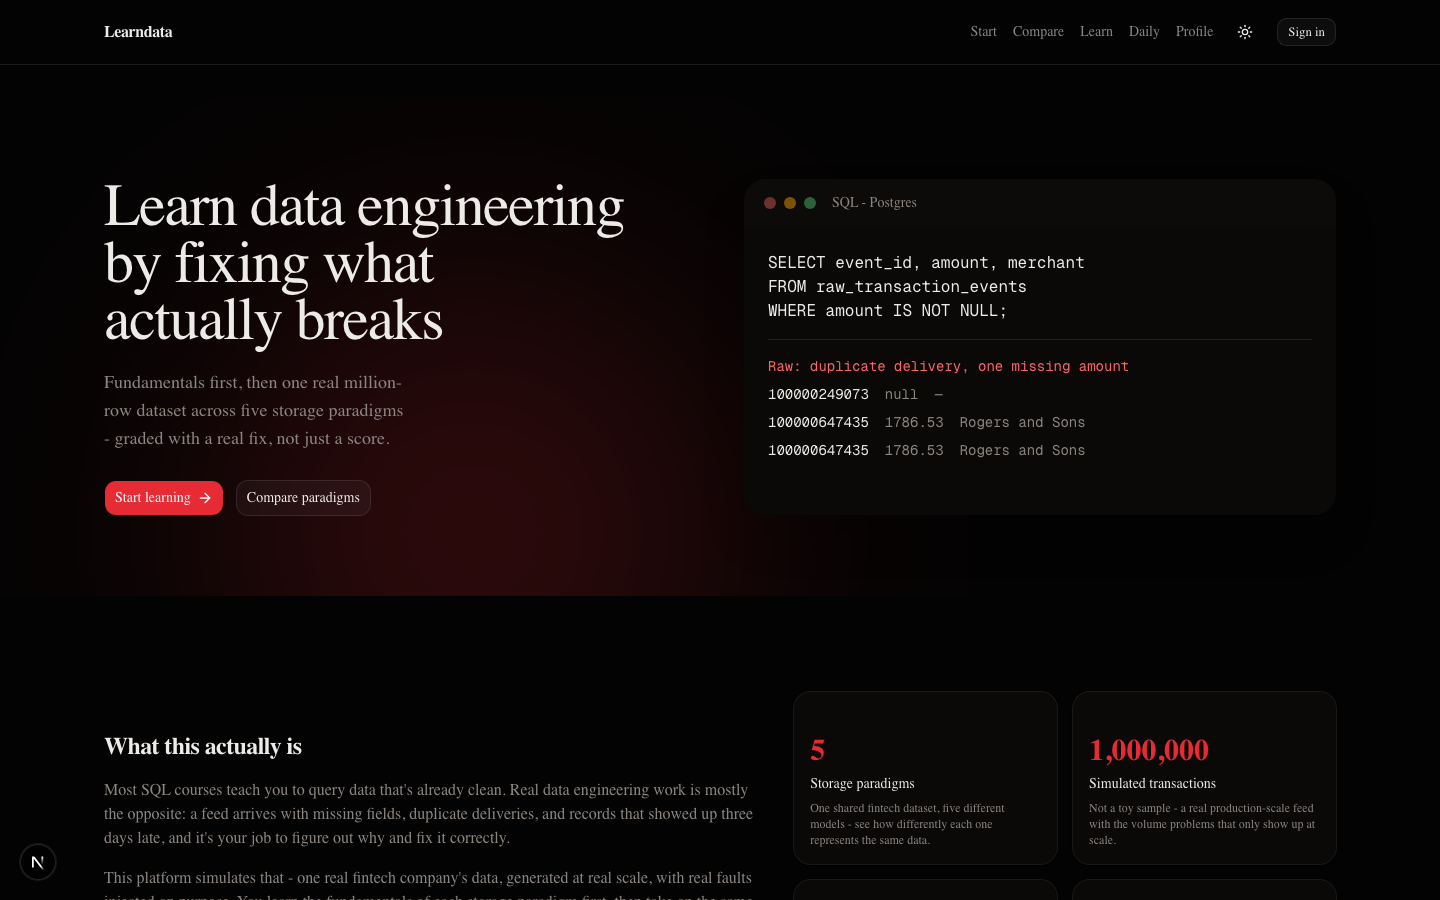
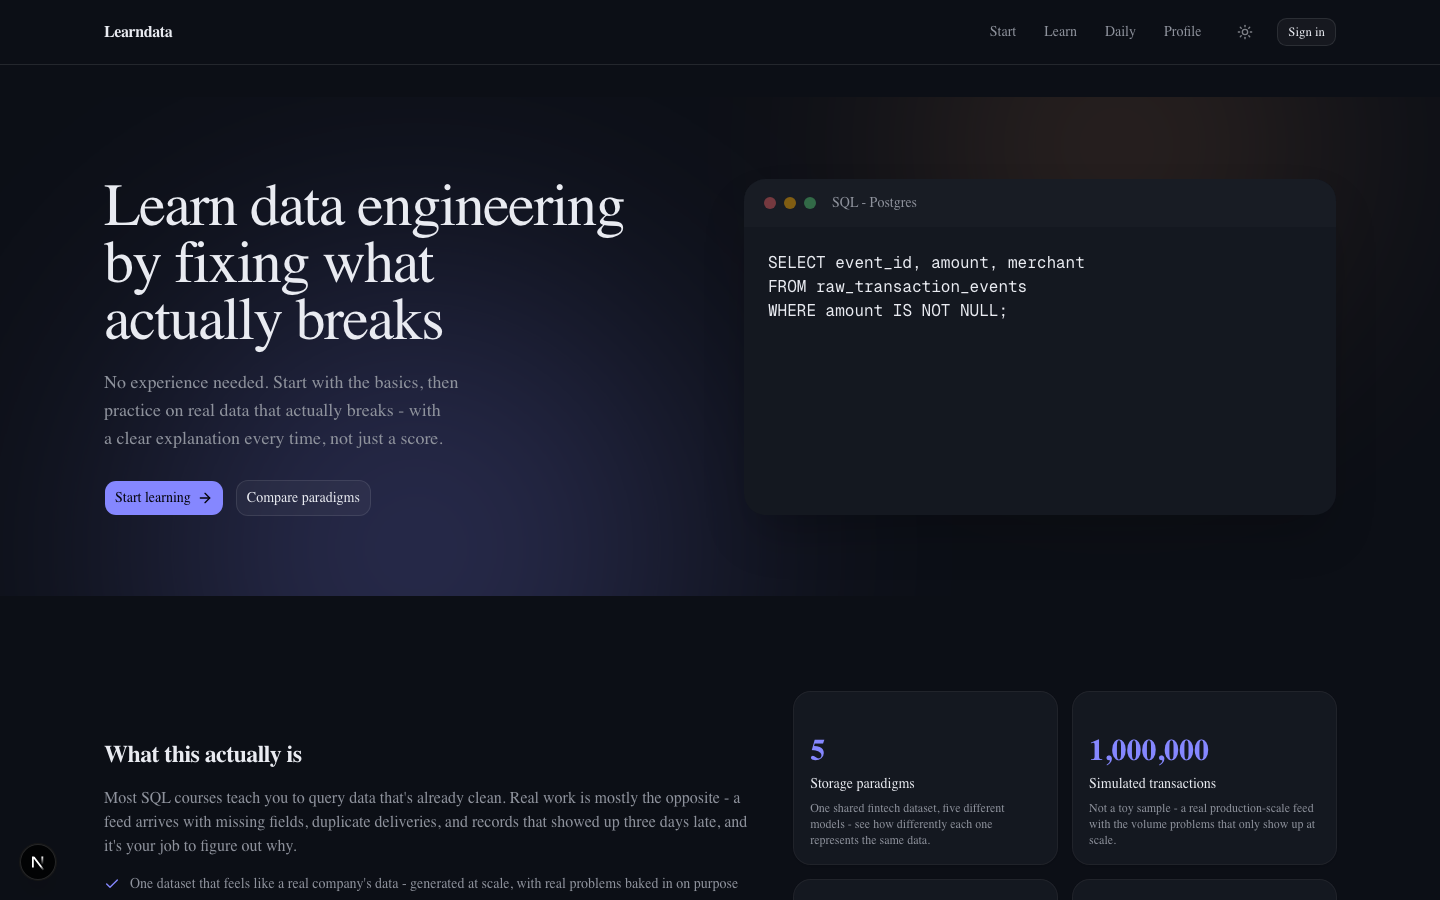
Update README screenshots and copy for the visual/UX overhaul

diff --git a/README.md b/README.md
@@ -18,18 +18,19 @@ missed, and why, is a different kind of learning.
 
 ![Homepage](docs/screenshots/homepage.png)
 
+A short animated walkthrough of how the skill tree works before you pick a paradigm:
+
+![How it works](docs/screenshots/start.png)
+
 A guided path through each paradigm - small fundamentals exercises first, then the real capstone
 on the full dataset:
 
 ![Skill tree](docs/screenshots/skill-tree.png)
 
-Every paradigm walks through the same dataset, so you can compare approaches directly:
+Every paradigm walks the same dataset, so Learn doubles as a cross-paradigm comparison - a real
+graph, plus the same operation solved six different ways:
 
-![Cross-paradigm comparison](docs/screenshots/compare.png)
-
-Six lenses on one dataset, picked from a single starting page:
-
-![Pick a paradigm](docs/screenshots/start.png)
+![Learn and compare](docs/screenshots/learn.png)
 
 ## What's actually running under the hood
 
@@ -38,8 +39,8 @@ Six lenses on one dataset, picked from a single starting page:
 - A rule-based grading engine with a real remediation catalog - every injected fault has a documented
   root cause, fix, and the tradeoffs between valid fixes.
 - Per-user progress, XP, streaks, badges, and a daily SQL + Python challenge, behind Google sign-in.
-- A cross-paradigm comparison graph (`@xyflow/react`) showing the same operation solved five
-  different ways.
+- A cross-paradigm comparison graph (`@xyflow/react`) on the Learn page, showing the same
+  operation solved six different ways.
 
 **Stack:** FastAPI + Postgres + MongoDB + PySpark/Delta on the backend; Next.js 16, React 19, and
 Tailwind on the frontend; Auth.js for sign-in.
